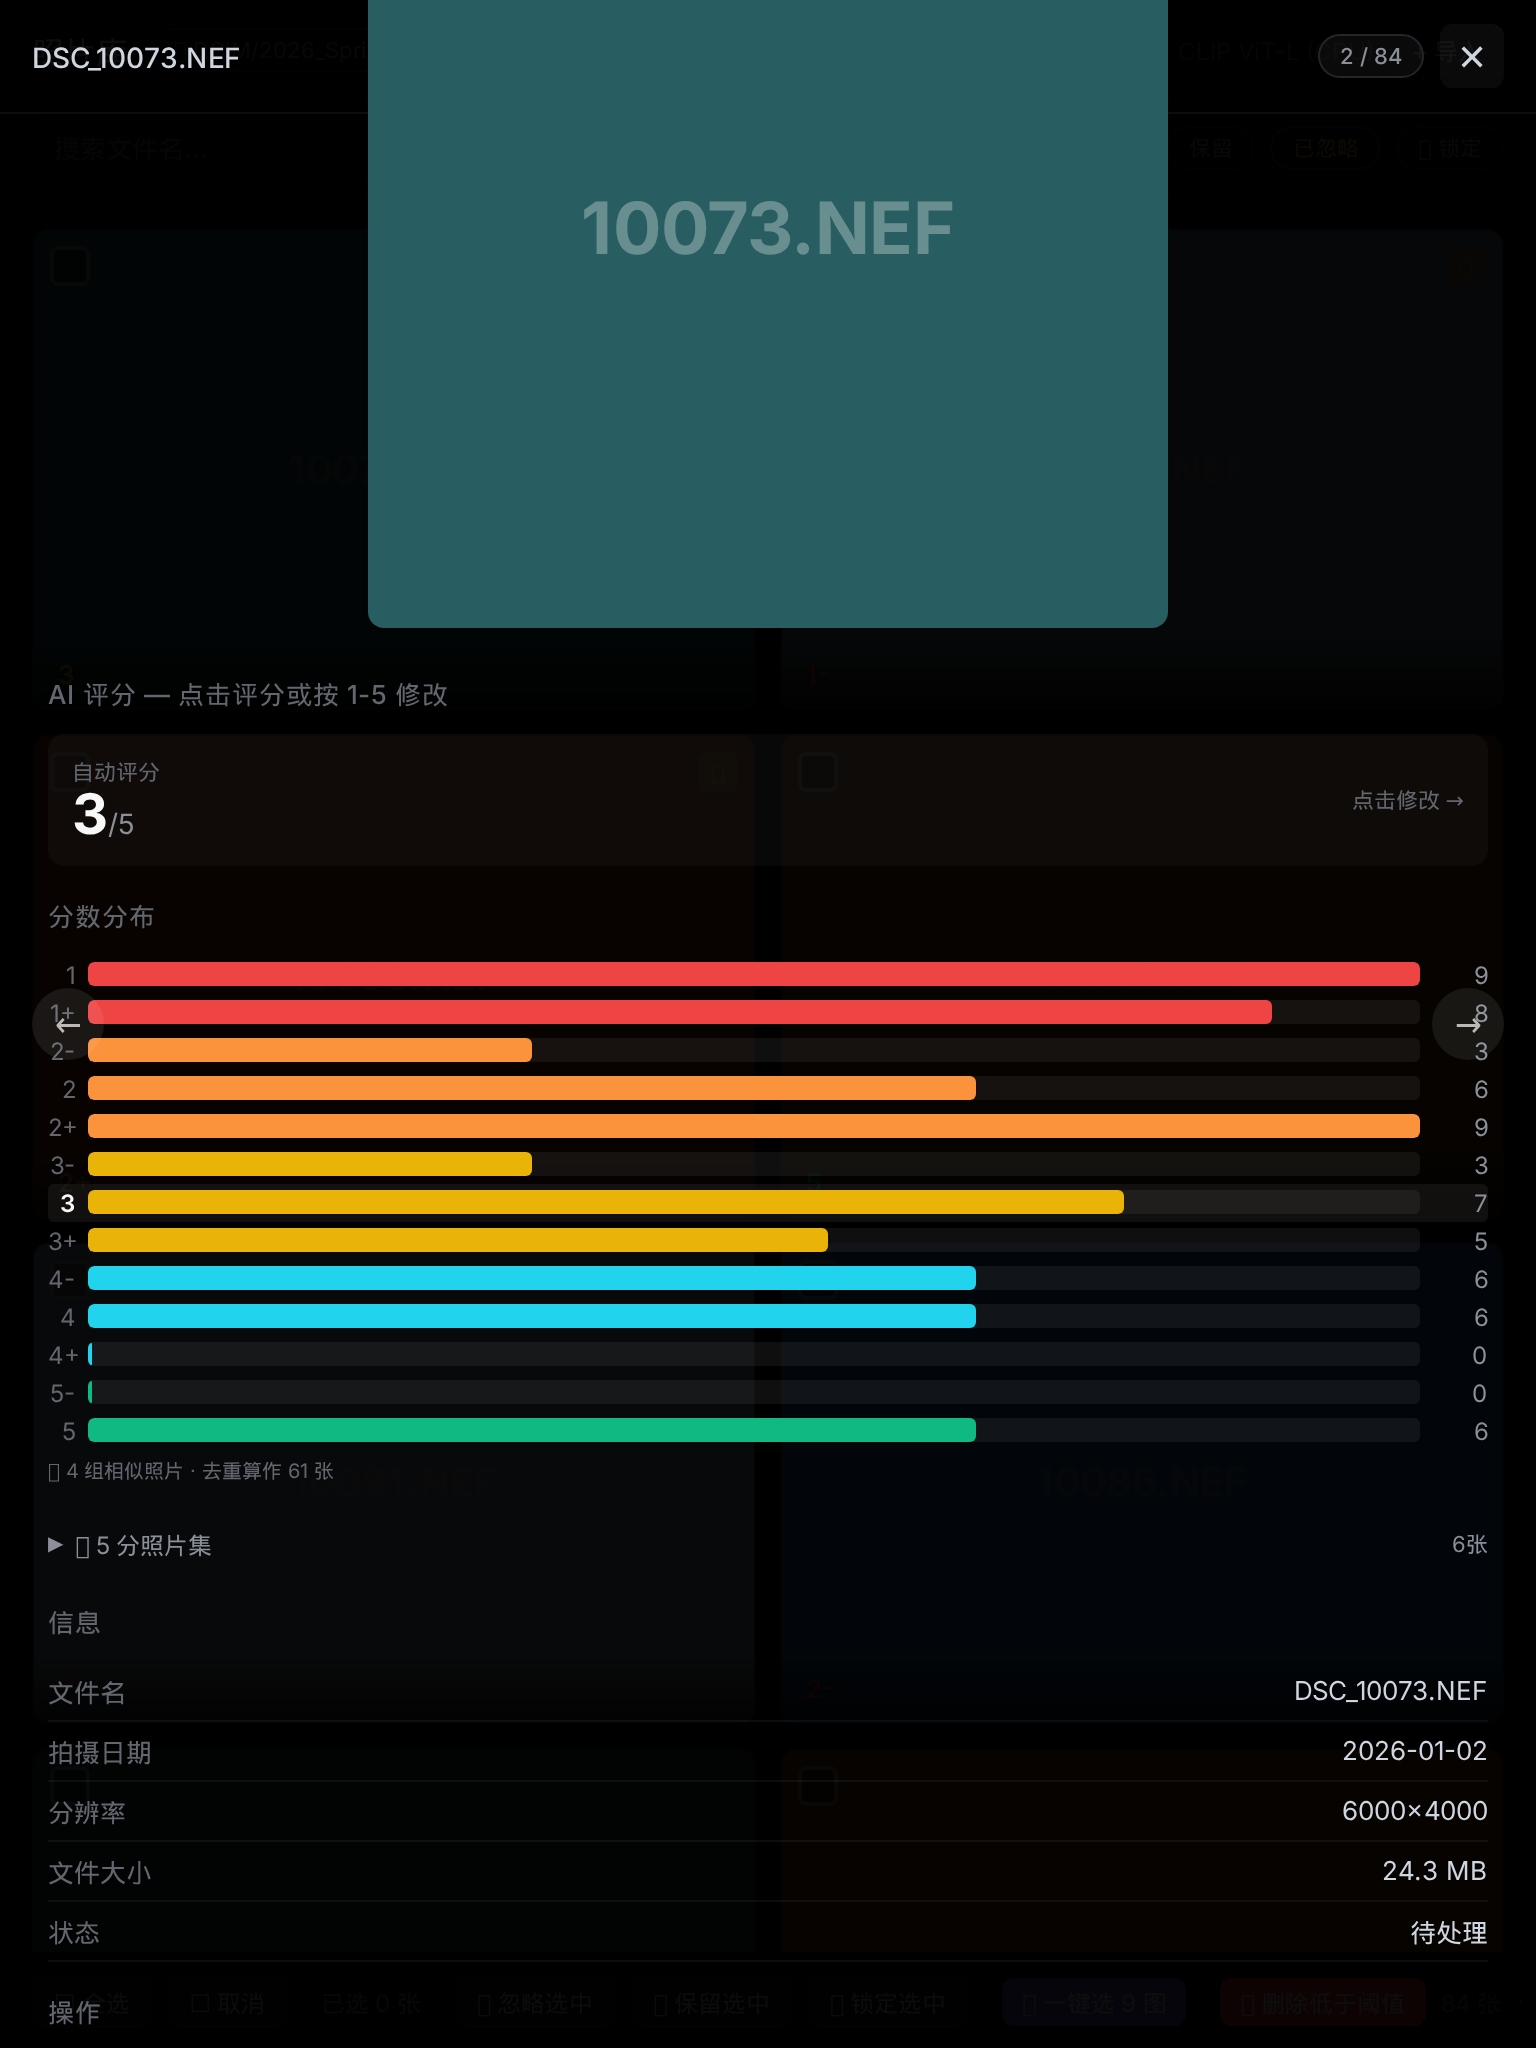
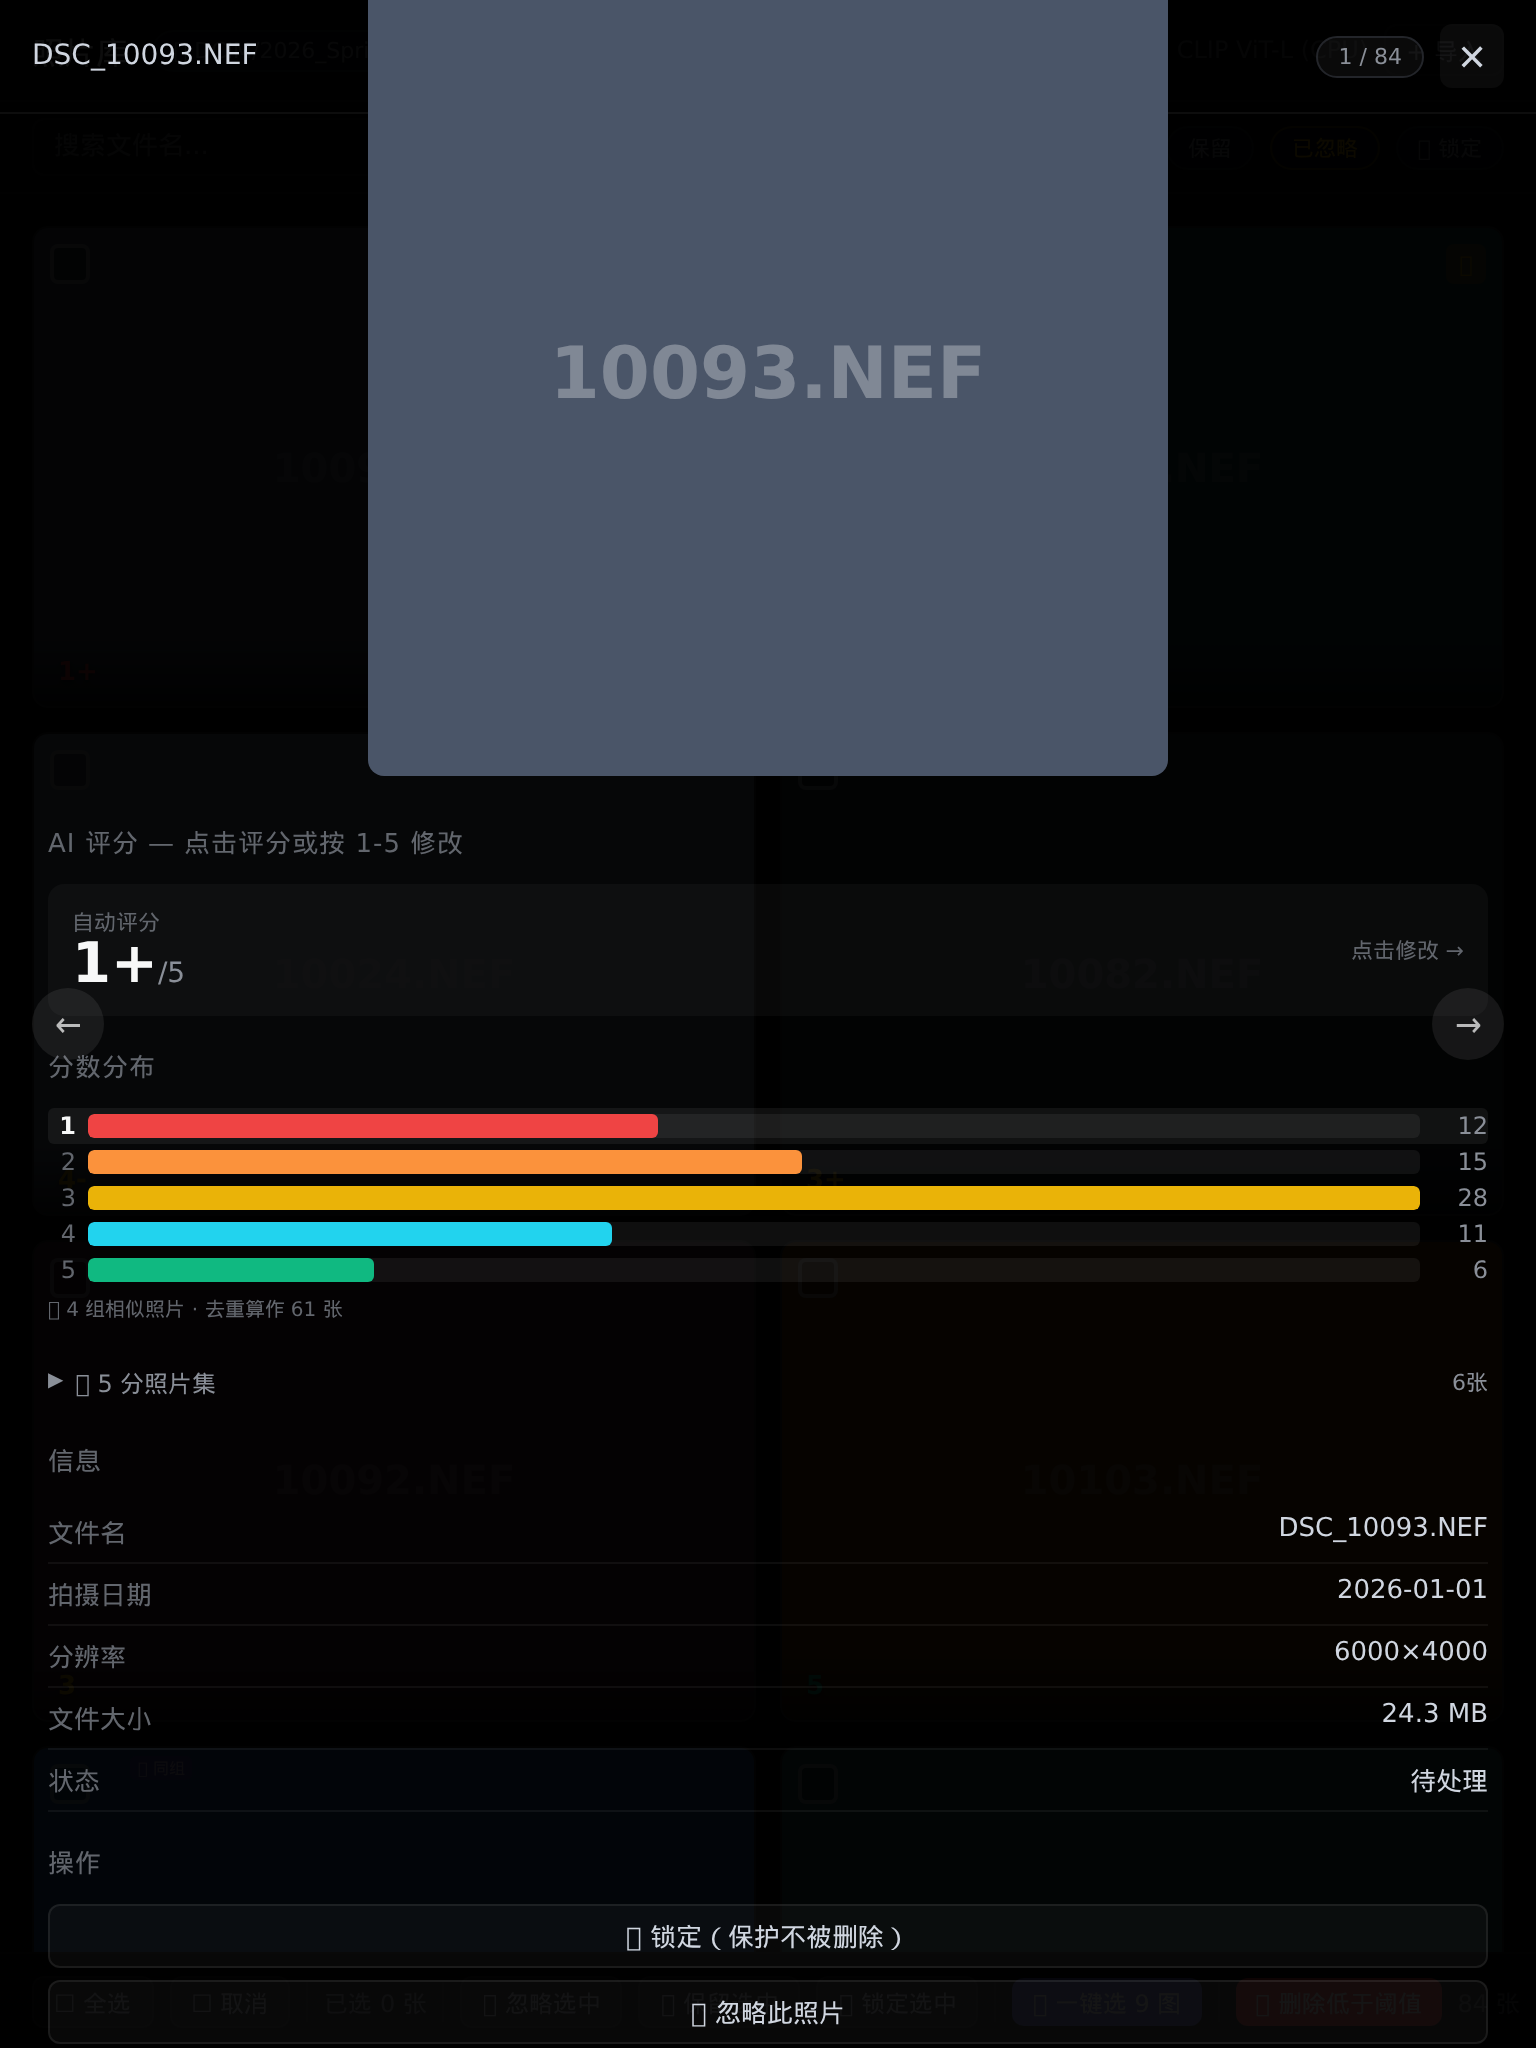
Cycle 001: score format changed to 13-level (2.8→3-), histogram to 5 bars, click cycles n→n+→n-→n

diff --git a/sketches/001-ux-first/variant-a-tool/index.html b/sketches/001-ux-first/variant-a-tool/index.html
@@ -449,12 +449,11 @@ html, body { height: 100%; font-family: 'Inter', system-ui, -apple-system, sans-
 <script>
 // ── Score Distribution ──
 function renderScoreDist() {
-  const counts = {};
-  SCORE_LABELS.forEach(l => counts[l] = 0);
+  const counts = {1: 0, 2: 0, 3: 0, 4: 0, 5: 0};
   const activePhotos = photos.filter(p => p.status !== 'dismissed');
   activePhotos.forEach(p => {
-    const label = formatScore(p.score);
-    if (counts[label] !== undefined) counts[label]++;
+    const base = parseInt(formatScore(p.score));
+    if (counts[base] !== undefined) counts[base]++;
   });
   const maxCount = Math.max(...Object.values(counts), 1);
   const allPhotos = activePhotos.length;
@@ -466,26 +465,25 @@ function renderScoreDist() {
   document.getElementById('score-dist-group-info').textContent =
     `📎 ${groupIds.size} 组相似照片 · 去重算作 ${dedupedCount} 张`;
 
-  document.getElementById('score-dist-bars').innerHTML = SCORE_LABELS.map(label => {
-    const pct = (counts[label] / maxCount) * 100;
-    const currentLabel = formatScore(photos[detailIndex].score);
-    const active = currentLabel === label;
-    const baseScore = parseInt(label);
-    const colorClass = `s-bar-${baseScore}`;
-    return `<div class="score-dist-bar ${active ? 'active' : ''}" onclick="filterToScoreLabel('${label}')">
-      <span class="s-label">${label}</span>
+  document.getElementById('score-dist-bars').innerHTML = [1,2,3,4,5].map(base => {
+    const pct = (counts[base] / maxCount) * 100;
+    const currentBase = parseInt(formatScore(photos[detailIndex].score));
+    const active = currentBase === base;
+    const colorClass = `s-bar-${base}`;
+    return `<div class="score-dist-bar ${active ? 'active' : ''}" onclick="filterToBaseScore(${base})">
+      <span class="s-label">${base}</span>
       <div class="s-bar-wrap"><div class="s-bar ${colorClass}" style="width:${pct}%"></div></div>
-      <span class="s-count">${counts[label]}</span>
+      <span class="s-count">${counts[base]}</span>
     </div>`;
   }).join('');
 }
 
-function filterToScoreLabel(label) {
+function filterToBaseScore(base) {
   document.querySelectorAll('.filter-chip').forEach(c => c.classList.remove('active'));
   document.querySelector('.filter-chip').classList.add('active');
   currentFilter = 'all'; showingDismissed = false; showingLocked = false;
-  scoreThreshold = parseLabel(label);
-  document.getElementById('threshold-label').textContent = label;
+  scoreThreshold = parseLabel(String(base));
+  document.getElementById('threshold-label').textContent = String(base);
   renderGrid();
 }
 
@@ -498,7 +496,7 @@ function toggleTop5() {
 }
 
 function renderTop5() {
-  const fivers = photos.filter(p => p.score >= 4.7 && p.status !== 'dismissed');
+  const fivers = photos.filter(p => parseInt(formatScore(p.score)) === 5 && p.status !== 'dismissed');
   document.getElementById('top5-section').style.display = fivers.length > 0 ? 'block' : 'none';
   document.getElementById('top5-count').textContent = `${fivers.length}张`;
   document.getElementById('top5-grid').innerHTML = fivers.map(p =>
@@ -529,11 +527,11 @@ function renderGroupInfo() {
       ${groupPhotos.map(gp => {
         const isBest = gp.id === best.id;
         const isCurrent = gp.id === p.id;
-        return `<div onclick="navigateToPhoto(${gp.id})" style="width:40px;height:30px;border-radius:4px;background:${gp.color};cursor:pointer;display:flex;align-items:center;justify-content:center;font-size:9px;color:rgba(255,255,255,0.5);font-weight:600;border:${isCurrent ? '2px solid var(--accent)' : isBest ? '2px solid #c084fc' : '1px solid transparent'};" title="${gp.filename} — ${gp.score.toFixed(1)}分${isBest ? ' (组最佳)' : ''}">${gp.score.toFixed(1)}</div>`;
+        return `<div onclick="navigateToPhoto(${gp.id})" style="width:40px;height:30px;border-radius:4px;background:${gp.color};cursor:pointer;display:flex;align-items:center;justify-content:center;font-size:9px;color:rgba(255,255,255,0.5);font-weight:600;border:${isCurrent ? '2px solid var(--accent)' : isBest ? '2px solid #c084fc' : '1px solid transparent'};" title="${gp.filename} — ${formatScore(gp.score)}分${isBest ? ' (组最佳)' : ''}">${formatScore(gp.score)}</div>`;
       }).join('')}
     </div>
     <div style="font-size:10px;color:var(--text-quaternary);margin-top:4px;">
-      🏆 <strong style="color:#c084fc;">组最佳: ${best.filename}</strong> — ${best.score.toFixed(1)}分
+      🏆 <strong style="color:#c084fc;">组最佳: ${best.filename}</strong> — ${formatScore(best.score)}分
       ${best.id === p.id ? '（当前照片）' : ''}
     </div>
   `;
@@ -596,28 +594,45 @@ const dateMax = new Date(2026, 4, 5);
 const dateRangeMs = dateMax - dateMin;
 
 // ── Score Formatting ──
-// Display: 1, 1+, 2-, 2, 2+, 3-, 3, 3+, 4-, 4, 4+, 5-, 5 (13 levels)
+// 13 evenly-spaced levels across 1.0–5.0:
+// 1, 1+, 2-, 2, 2+, 3-, 3, 3+, 4-, 4, 4+, 5-, 5
+// 2.8 → 3-  (closer to 3 than 2, rounded down)
 function formatScore(val) {
   if (val === undefined || val === null) return '--';
-  const floor = Math.floor(val);
-  const frac = val - floor;
-  if (floor < 1) return `1`;
-  if (floor >= 5) return `5`;
-  if (frac < 0.3) return `${floor}-`;
-  if (frac < 0.7) return `${floor}`;
-  return `${floor}+`;
+  if (val <= 1.166) return '1';
+  if (val <= 1.5)   return '1+';
+  if (val <= 1.833) return '2-';
+  if (val <= 2.166) return '2';
+  if (val <= 2.5)   return '2+';
+  if (val <= 2.833) return '3-';
+  if (val <= 3.166) return '3';
+  if (val <= 3.5)   return '3+';
+  if (val <= 3.833) return '4-';
+  if (val <= 4.166) return '4';
+  if (val <= 4.5)   return '4+';
+  if (val <= 4.833) return '5-';
+  return '5';
 }
 
 function parseLabel(label) {
-  // Reverse: "3+" → 3.7, "3" → 3.3, "3-" → 3.0
+  // Reverse: map label back to center value
   if (label === '--') return 0;
-  const match = label.match(/^(\d)([+-])?$/);
-  if (!match) return 3;
-  const num = parseInt(match[1]);
-  const mod = match[2];
-  if (mod === '+') return num + 0.7;
-  if (mod === '-') return num - 0.3;
-  return num + 0.3; // neutral → slightly above integer
+  const idx = SCORE_LABELS.indexOf(label);
+  if (idx === -1) return 3;
+  const centers = [1.0, 1.333, 1.666, 2.0, 2.333, 2.666, 3.0, 3.333, 3.666, 4.0, 4.333, 4.666, 5.0];
+  return centers[idx];
+}
+
+// Get cycle order for a base number: n → n+ → n- → n
+function getBaseVariants(base) {
+  const all = SCORE_LABELS.filter(l => parseInt(l) === base);
+  const neut = all.find(l => !l.includes('+') && !l.includes('-')) || all[0];
+  const plus = all.find(l => l.includes('+'));
+  const minus = all.find(l => l.includes('-'));
+  const ordered = [neut];
+  if (plus) ordered.push(plus);
+  if (minus) ordered.push(minus);
+  return ordered;
 }
 
 // Labels for display
@@ -733,10 +748,11 @@ function quickDismiss(id) {
 function quickRate(id) {
   const p = photos.find(x => x.id === id);
   if (!p) return;
-  const labels = SCORE_LABELS;
   const current = formatScore(p.score);
-  const idx = labels.indexOf(current);
-  const next = labels[(idx + 1) % labels.length];
+  const base = parseInt(current) || 1;
+  const variants = getBaseVariants(base);
+  const idx = variants.indexOf(current);
+  const next = variants[(idx + 1) % variants.length];
   p.score = parseLabel(next);
   renderGrid();
 }
@@ -950,18 +966,17 @@ function toggleScoreEdit() {
 
 function setScore(val) {
   const p = photos[detailIndex];
-  const labels = SCORE_LABELS;
-  // val is 1-5 from keyboard or star click, map to appropriate label
-  const candidates = labels.filter(l => l.startsWith(String(val)));
   const current = formatScore(p.score);
-  const currentCandidates = candidates.filter(l => l.startsWith(String(val)));
-  // If current starts with same digit, cycle: - → neutral → +
-  if (currentCandidates.length > 1) {
-    const idx = currentCandidates.indexOf(current);
-    const next = currentCandidates[(idx + 1) % currentCandidates.length];
+  const currentBase = parseInt(current) || 1;
+  if (currentBase === val) {
+    // Same base: cycle variants: n → n+ → n- → n
+    const variants = getBaseVariants(val);
+    const idx = variants.indexOf(current);
+    const next = variants[(idx + 1) % variants.length];
     p.score = parseLabel(next);
   } else {
-    p.score = parseLabel(candidates[1] || labels[0]); // default to neutral
+    // New base: go to neutral
+    p.score = parseLabel(String(val));
   }
   showDetail();
   renderGrid();

diff --git a/.hermes/plans/002-react-and-api.md b/.hermes/plans/002-react-and-api.md
@@ -1,0 +1,109 @@
+# Cycle 002 — React 组件 + API 规格
+
+## 目标
+将 v3 prototype 的 UI 设计实现为真实 React 组件，同时从前端使用角度倒推出后端 API 规格。
+
+## 任务列表
+
+### 1. TypeScript 类型定义
+- [ ] `Photo` — id, filename, score (raw float), scoreLabel (formatScore), date, status (pending/kept/dismissed), locked, group, metadata (resolution, size)
+- [ ] `PhotoGroup` — groupId, desc, memberIds, bestId
+- [ ] `ScoreLabel` — 13-value union type
+- [ ] `FilterState` — currentFilter, scoreThreshold, dateRange, showingDismissed, showingLocked, searchQuery
+- [ ] `ImportResult` — count, dateRange, fileList
+- [ ] 路径: `src/types.ts`
+
+### 2. 工具函数模块
+- [ ] `src/lib/score.ts` — formatScore, parseLabel, getBaseVariants, SCORE_LABELS
+- [ ] `src/lib/dates.ts` — dateRangePresets, formatDateRange
+- [ ] 带完整单元测试
+
+### 3. React 组件树
+```
+App
+├─ Sidebar
+│  ├─ SidebarHeader (logo + title)
+│  ├─ SidebarNav (nav items + counts)
+│  ├─ DateRangeFilter (dual slider + presets)
+│  └─ ScoreFilterNav (all / high / medium / low)
+├─ MainArea
+│  ├─ Header (view title, folder badge, import button)
+│  ├─ FilterBar (search input, threshold slider, filter chips)
+│  ├─ Content
+│  │  ├─ PhotoGrid
+│  │  │  └─ PhotoCard (thumbnail, score label, lock/dismiss actions)
+│  │  └─ EmptyState
+│  └─ Toolbar
+│     ├─ SelectionControls (select all, clear, count)
+│     ├─ BatchActions (dismiss, keep, lock)
+│     ├─ PickTop9
+│     └─ DeleteLowScore
+├─ ImportOverlay (dialog, dropzone, scan summary)
+└─ DetailOverlay
+   ├─ DetailHeader (filename, position, close)
+   ├─ DetailImage (prev/next arrows, large view)
+   ├─ DetailSidebar
+   │  ├─ ScoreDisplay (clickable, cycling n → n+ → n- → n)
+   │  ├─ ScoreDistribution (5-bar histogram, clickable bars)
+   │  ├─ SimilarGroup (group info, member thumbnails)
+   │  ├─ Top5Collapsible (collapsible top-scoring photos)
+   │  ├─ Metadata (filename, date, resolution, size, status)
+   │  └─ DetailActions (lock, dismiss, keep)
+   └─ KeyboardShortcuts (← → 1-5 L D Esc)
+```
+
+### 4. 状态管理
+- [ ] React Context 或 Zustand store
+- [ ] 状态: photos[], filter, detailIndex, selection
+- [ ] Actions: importPhotos, updateScore, toggleLock, dismiss, keep, batchDelete, selectTop9
+
+### 5. API 接口规格 (OpenAPI 3.0)
+从前端使用逆推，定义端点:
+
+| 端点 | 方法 | 用途 |
+|---|---|---|
+| `/api/photos` | GET | 带筛选查询(score, date, status, search) |
+| `/api/photos/:id` | GET | 单个相片详情 |
+| `/api/photos/import` | POST | 扫描文件夹，返回待导入列表 |
+| `/api/photos/import/confirm` | POST | 确认导入，触发 AI 评分 |
+| `/api/photos/:id/score` | PATCH | 用户修正评分 → 触发在线学习 |
+| `/api/photos/:id/lock` | POST | 锁定/解锁 |
+| `/api/photos/:id/status` | PATCH | pending/kept/dismissed |
+| `/api/photos/batch/delete` | POST | 批量删除低于阈值(排除锁定) |
+| `/api/photos/batch/status` | PATCH | 批量修改状态 |
+| `/api/photos/similar` | GET | 相似组列表 |
+| `/api/scores/distribution` | GET | 分数分布计数 |
+| `/api/ml/status` | GET | 后端模型状态 |
+
+- 输出: `docs/api-spec.yaml` (OpenAPI 3.0)
+
+### 6. SQLite Schema
+- [ ] `photos` 表 (id, filename, path, score, status, locked, date_taken, width, height, file_size, created_at, updated_at)
+- [ ] `photo_groups` 表 (group_id, photo_id, description)
+- [ ] `feedback_log` 表 (id, photo_id, old_score, new_score, timestamp)
+- [ ] `ml_model_state` 表 (version, type, last_trained, metadata)
+
+### 7. 测试
+- [ ] `src/lib/score.test.ts` — formatScore(2.8)='3-', parseLabel('3+')=3.333, cycle order
+- [ ] `src/lib/dates.test.ts`
+- [ ] `src/components/PhotoCard.test.tsx` — renders score label, click cycles
+- [ ] `src/components/ScoreDistribution.test.tsx` — 5 bars, clickable
+
+## 交付物
+- `src/types.ts`
+- `src/lib/score.ts` (+ test)
+- `src/lib/dates.ts` (+ test)
+- `src/components/` — 所有组件
+- `docs/api-spec.yaml`
+- DB schema (`migrations/001_init.sql`)
+- 所有测试通过 ✅
+
+## 优先级
+1. 类型定义 + 工具函数 (基础)
+2. PhotoGrid + PhotoCard (核心视图)
+3. DetailOverlay + 评分交互 (核心交互)
+4. Sidebar + FilterBar (浏览)
+5. ImportOverlay (导入流程)
+6. Toolbar (批量操作)
+7. API spec + DB schema (后端规格)
+8. 测试 (贯穿始终)
